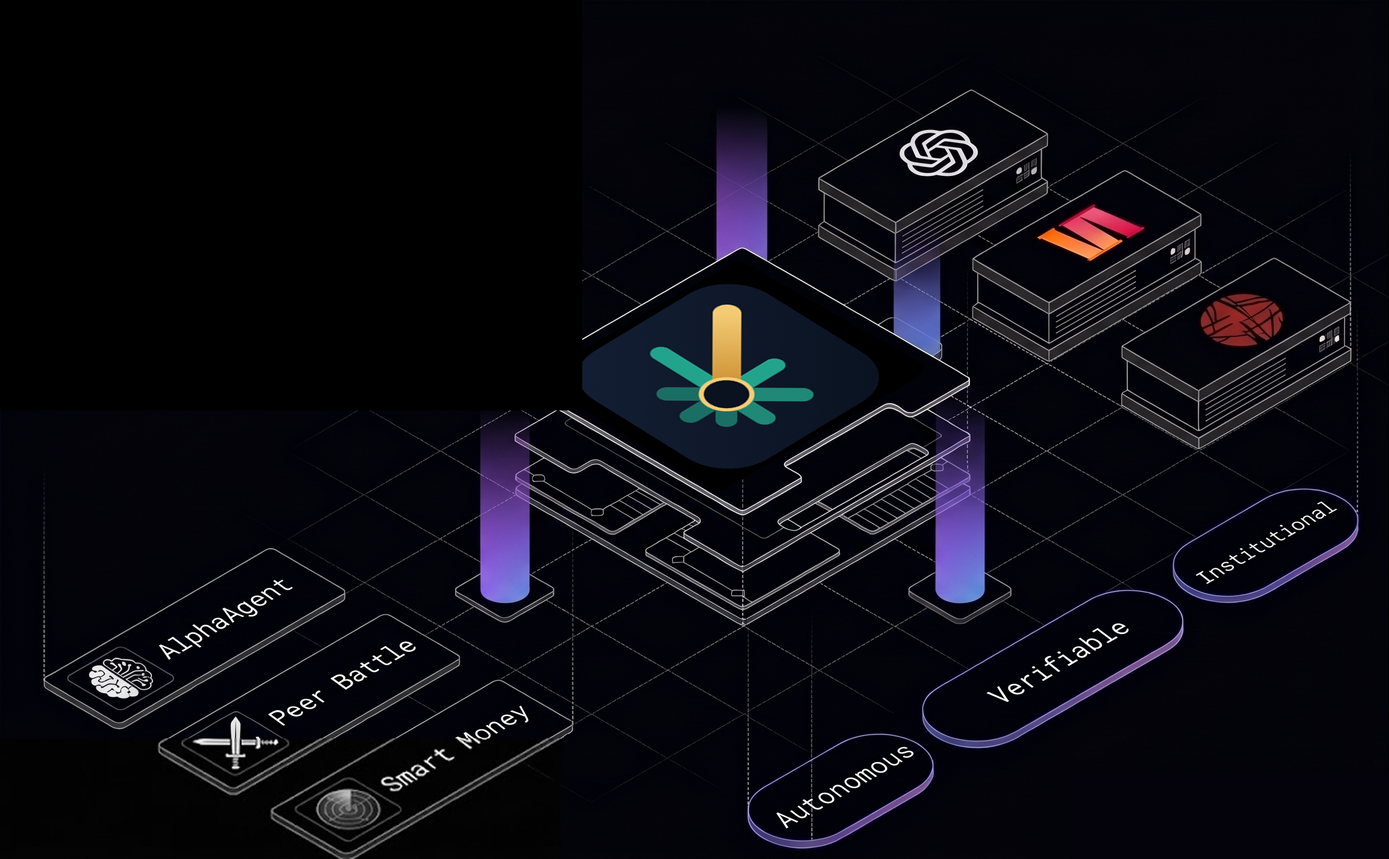
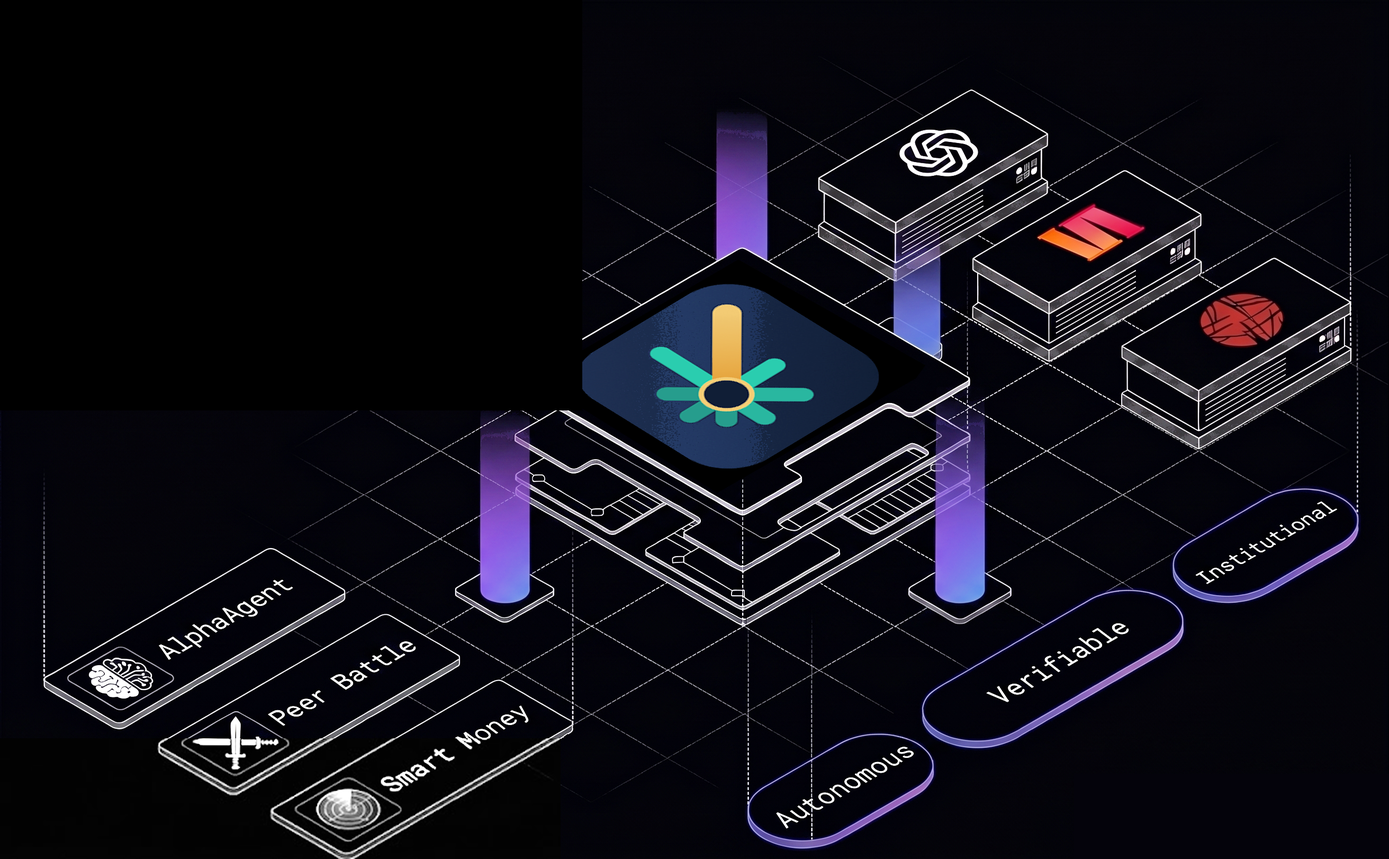
fix: remove darkening gradient overlays from hero illustration and boost text contrast for razor-sharp legibility

diff --git a/frontend/app/page.tsx b/frontend/app/page.tsx
@@ -88,18 +88,15 @@ export default function LandingPage() {
                 className="object-contain object-right-bottom"
                 priority
               />
-              {/* Subtle bottom vignette to ensure bottom-right illustration merges into section transition */}
-              <div className="absolute inset-0 bg-gradient-to-t from-[#090d16] via-transparent to-transparent opacity-80 pointer-events-none" />
-              <div className="absolute inset-0 bg-gradient-to-r from-black via-transparent to-transparent opacity-50 pointer-events-none" />
             </div>
           </div>
 
         </div>
 
-        {/* Seamless Full-Width Bottom Fading Mask into Section 2 (No harsh border line) */}
-        <div className="absolute inset-x-0 bottom-0 h-32 sm:h-40 bg-gradient-to-b from-transparent via-[#090d16]/70 to-[#090d16] pointer-events-none z-20" />
-
       </section>
+
+      {/* Seamless Transition Zone Between Section 1 (Black) and Section 2 (#090d16) */}
+      <div className="w-full h-24 sm:h-32 bg-gradient-to-b from-black via-[#04060b] to-[#090d16] pointer-events-none" />
 
       {/* 2. CORE CAPABILITIES (Rich Visual Grid) */}
       <section className="py-20 bg-[#090d16] px-4 sm:px-6 lg:px-8">
